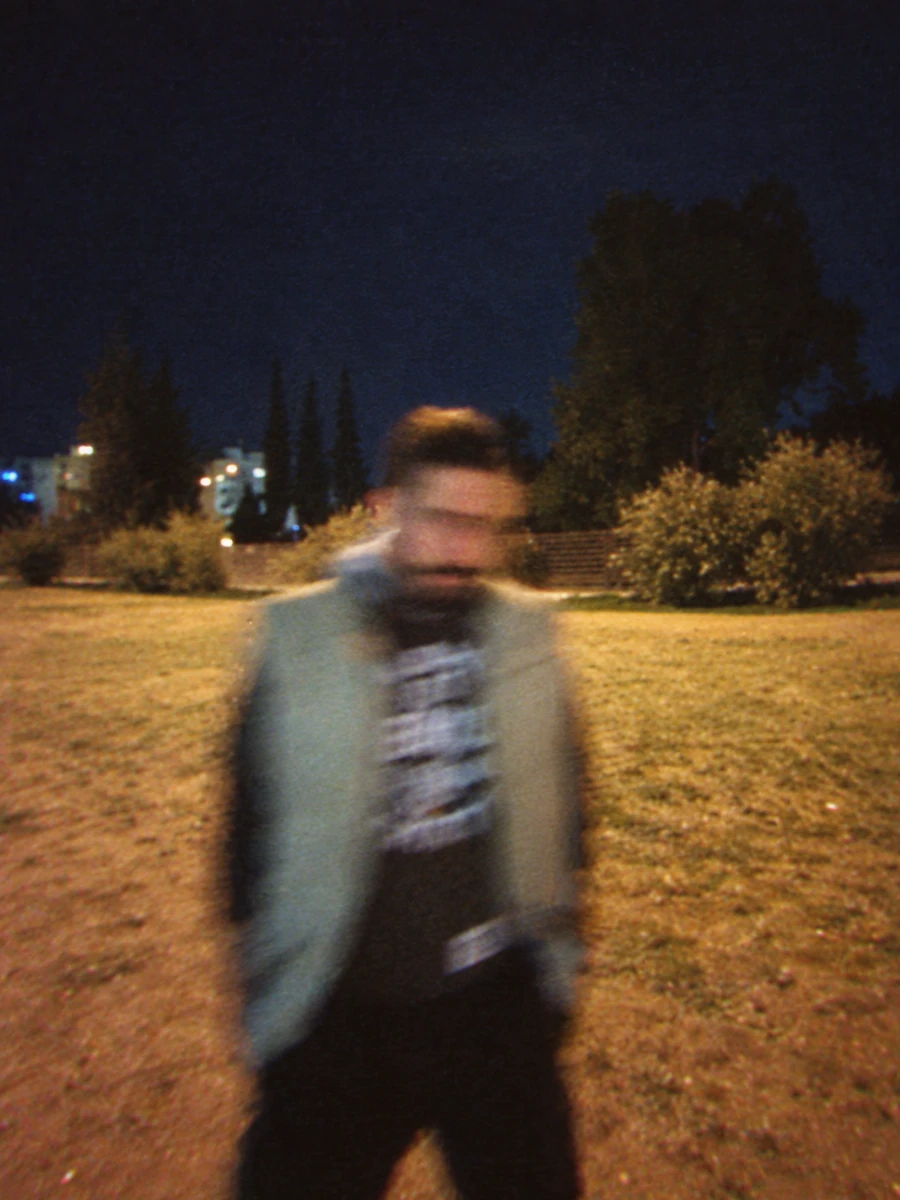
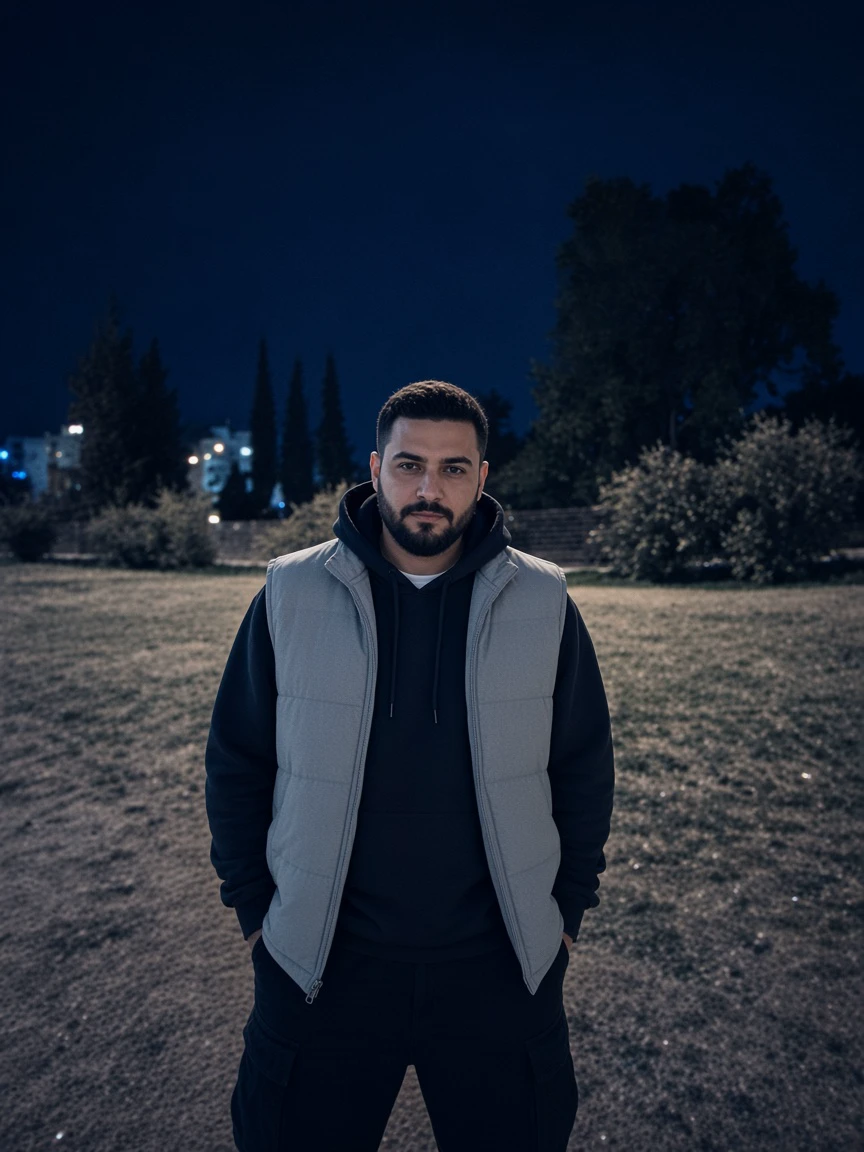
Drop zine red, unbrand the discman, and put Riscape on the homepage (#482)
Replace stamp red with steel, seat a level LCD on an unbranded silver
CD player, and swap the blurry field shot plus Inlet Knight jewel case
for a sharp night portrait and the You Are (Love) sleeve.

diff --git a/index.html b/index.html
@@ -1519,7 +1519,7 @@
       --join-ink: var(--zine-ink, #e8eef4);
       --join-muted: var(--zine-muted, #a8b4c4);
       --join-dim: var(--zine-dim, #7a8696);
-      --join-stamp: var(--zine-stamp, #c81e3a);
+      --join-stamp: var(--zine-stamp, #9eb8cc);
       --join-rule: var(--zine-rule, rgba(200, 214, 230, .22));
       --join-display: var(--zine-display, "Archivo Black", Impact, sans-serif);
       --join-mono: var(--zine-mono, "IBM Plex Mono", ui-monospace, monospace);
@@ -2094,7 +2094,7 @@
       }
     }
     .home-artist-photo img.is-wide { object-position: 58% 38%; }
-    .home-artist-photo img.is-field { object-position: center 36%; }
+    .home-artist-photo img.is-field { object-position: center 18%; }
     .home-artist-meta {
       display: flex;
       flex-direction: column;
@@ -2642,8 +2642,8 @@
     </div>
   </section>
 
-  <!-- Still life — Sony CD Walkman + Diamond Rio -->
-  <section class="desk" id="desk" data-desk aria-label="Listen on a Sony CD Walkman or Diamond Rio">
+  <!-- Still life — silver discman + Diamond Rio -->
+  <section class="desk" id="desk" data-desk aria-label="Listen on a portable CD player or Diamond Rio">
     <div class="desk-band">
       <div class="desk-still">
         <div class="desk-cases" aria-label="Jewel cases on the desk">
@@ -2668,7 +2668,7 @@
             data-lcd-title="DESIRE"
           >
             <div class="hw hw--walkman">
-              <img class="hw-photo" src="img/desk-walkman.webp" alt="Sony CD Walkman D-NE241" width="789" height="701" loading="lazy"/>
+              <img class="hw-photo" src="img/desk-walkman.webp" alt="Silver portable CD player" width="1152" height="864" loading="lazy"/>
               <div class="hw-lcd" aria-hidden="true">
                 <div class="hw-lcd-row">
                   <span class="hw-lcd-mode" data-desk-lcd-mode></span>
@@ -2686,9 +2686,9 @@
             </div>
           </div>
 
-          <a class="desk-case desk-case--mid" href="/inlet-knight">
+          <a class="desk-case desk-case--mid" href="/news/please">
             <span class="desk-case-spine" aria-hidden="true"></span>
-            <img src="inlet-knight-cover.webp" alt="Inlet Knight — Rosco" width="1200" height="1200" loading="lazy"/>
+            <img src="you-are-love-cover.webp" alt="You Are (Love) — Riscape" width="1254" height="1254" loading="lazy"/>
           </a>
 
           <div
@@ -2730,7 +2730,7 @@
       <div class="home-roster">
         <a class="home-artist rv" href="/artists/riscape">
           <div class="home-artist-photo fx-spec">
-            <img src="artists/riscape.webp" alt="Riscape" width="900" height="1200" loading="lazy" class="is-field"/>
+            <img src="artists/riscape.webp" alt="Riscape" width="864" height="1152" loading="lazy" class="is-field"/>
           </div>
           <div class="home-artist-meta">
             <p class="home-artist-role">Artist</p>
@@ -2784,10 +2784,10 @@
       </header>
 
       <article class="zine-lead rv">
-        <figure class="zine-polaroid is-sleeve">
+        <figure class="zine-polaroid">
           <span class="zine-tape" aria-hidden="true"></span>
-          <img src="you-are-love-cover.webp" alt="You Are (Love) — circular dusk cityscape artwork" width="1254" height="1254" loading="lazy"/>
-          <figcaption>you are (love). cc004.</figcaption>
+          <img src="artists/riscape.webp" alt="Riscape" width="864" height="1152" loading="lazy"/>
+          <figcaption>riscape. athens.</figcaption>
         </figure>
         <div>
           <p class="zine-kicker">from athens · cc004</p>

diff --git a/css/desk.css b/css/desk.css
@@ -1,4 +1,4 @@
-/* Club Copy — still-life desk: real Walkman + Rio, LCD overlays only */
+/* Club Copy — still-life desk: unbranded discman + Rio, LCD overlays only */
 
 .desk {
   --desk-ink: #e8eef4;
@@ -245,12 +245,12 @@
 }
 
 .hw--walkman .hw-lcd {
-  top: 27.8%;
-  left: 24.5%;
-  width: 16.8%;
-  height: 9.6%;
+  top: 39.8%;
+  left: 23.6%;
+  width: 16.2%;
+  height: 10.4%;
   padding: 2px 4px 1px 5px;
-  border-radius: 2px;
+  border-radius: 3px;
   overflow: hidden;
   color: #1b2316;
   background:
@@ -259,7 +259,7 @@
   box-shadow:
     inset 0 1px 1px rgba(20, 28, 18, .4),
     0 0 0 1px rgba(40, 48, 44, .28);
-  transform: rotate(-1.6deg);
+  transform: none;
   transform-origin: 50% 50%;
   font-size: clamp(10px, 1.5vw, 14px);
 }
@@ -357,12 +357,12 @@
   outline-offset: 2px;
 }
 
-.hw--walkman .hw-hit--play { left: 63%; top: 38%; width: 16%; height: 16%; border-radius: 50%; }
-.hw--walkman .hw-hit--prev { left: 54%; top: 41%; width: 11%; height: 12%; }
-.hw--walkman .hw-hit--next { left: 78%; top: 40%; width: 11%; height: 12%; }
-.hw--walkman .hw-hit--stop { left: 51.5%; top: 24%; width: 9%; height: 9%; border-radius: 50%; }
-.hw--walkman .hw-hit--vol-down { left: 24%; top: 51%; width: 10%; height: 8%; }
-.hw--walkman .hw-hit--vol-up { left: 38%; top: 51%; width: 10%; height: 8%; }
+.hw--walkman .hw-hit--play { left: 64%; top: 32%; width: 22%; height: 28%; border-radius: 50%; }
+.hw--walkman .hw-hit--prev { left: 56%; top: 38%; width: 10%; height: 14%; }
+.hw--walkman .hw-hit--next { left: 84%; top: 38%; width: 10%; height: 14%; }
+.hw--walkman .hw-hit--stop { left: 50%; top: 32%; width: 12%; height: 14%; border-radius: 50%; }
+.hw--walkman .hw-hit--vol-down { left: 28%; top: 58%; width: 12%; height: 9%; }
+.hw--walkman .hw-hit--vol-up { left: 42%; top: 58%; width: 12%; height: 9%; }
 
 .hw--rio .hw-hit--play { left: 18%; top: 36%; width: 28%; height: 12%; border-radius: 50%; }
 .hw--rio .hw-hit--stop { left: 48%; top: 36%; width: 28%; height: 12%; border-radius: 50%; }

diff --git a/artists/riscape.html b/artists/riscape.html
@@ -119,7 +119,7 @@
 <main id="main" class="artist-world">
   <header class="artist-world-hero">
     <div class="artist-world-photo">
-      <img src="riscape.webp" alt="Riscape" width="900" height="1200" class="is-field" fetchpriority="high"/>
+      <img src="riscape.webp" alt="Riscape" width="864" height="1152" class="is-field" fetchpriority="high"/>
     </div>
     <div class="artist-world-copy">
       <nav class="crumbs" aria-label="Breadcrumb"><a href="/">Home</a><span>/</span><a href="/artists">Artists</a><span>/</span>Riscape</nav>

diff --git a/artists.html b/artists.html
@@ -188,7 +188,7 @@
 
       <article class="roster-artist rv" id="riscape" aria-labelledby="riscape-name">
         <div class="roster-photo">
-          <img src="artists/riscape.webp" alt="Riscape" width="900" height="1200" loading="lazy" class="is-field"/>
+          <img src="artists/riscape.webp" alt="Riscape" width="864" height="1152" loading="lazy" class="is-field"/>
         </div>
         <div class="roster-copy">
           <h2 id="riscape-name">Riscape</h2>

diff --git a/css/news.css b/css/news.css
@@ -10,7 +10,7 @@
   --zine-muted: #a8b4c4;
   --zine-dim: #7a8696;
   --zine-rule: rgba(200, 214, 230, .22);
-  --zine-stamp: #c81e3a;
+  --zine-stamp: #9eb8cc;
   --zine-hi: #8aa0b8;
   --zine-cyan: #7ec8d8;
   --zine-tape: rgba(168, 180, 196, .42);

diff --git a/css/artists.css b/css/artists.css
@@ -87,7 +87,7 @@
 }
 .roster-photo img.is-field,
 .artist-world-photo img.is-field {
-  object-position: center 36%;
+  object-position: center 18%;
 }
 @media (hover:hover) {
   .roster-artist:hover .roster-photo img {
